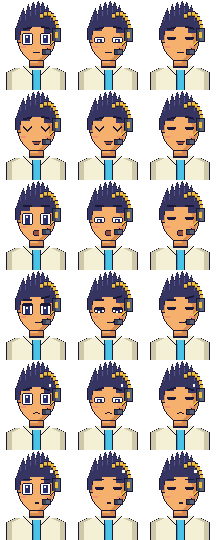
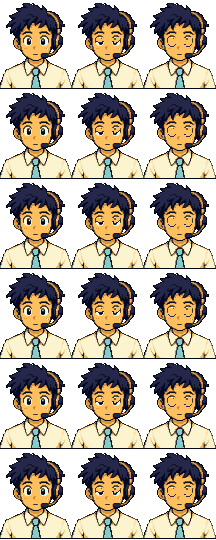
RetroNews: real art in — city background + the actual host portrait
Two tools and the assets they produced.

prep_art.py turns an AI "pixel art style" image into ACTUAL pixel art at spec.
It uses BOX averaging rather than NEAREST to downscale, which is counter-
intuitive: NEAREST keeps one arbitrary sample per output pixel, so thin features
(a window, an eye highlight) vanish or alias depending on where the grid lands.
BOX preserves structure and the QUANTIZE step after it is what makes the result
hard-edged — anti-aliasing is BLENDED EDGE pixels, and once every pixel is
snapped to a small palette there are none left. It then verifies rather than
trusts: exact dimensions, colour cap, and ZERO semi-alpha (the tell that AA
survived, invisible until it is on air with fringed edges).

BACKGROUND: the city skyline at 270x480 / 24 colours / 0 semi-alpha. Source was
941x1672, aspect 0.563 against our 0.5625 — essentially an exact match.
Displayed at 4x = 1080x1920 stage = 810x1440 device, on-grid.

#safe IS NOW TRANSPARENT. It was an opaque 864x1152 slab, which with YouTube's
chrome over the top and bottom bands left only ~4.9% of any background visible
(one 22x288 art-pixel strip). The panels carry their own bevels, so the city now
reads in the gaps and margins instead of being covered by a layout box.

HOST: replaced my hand-coded version — it was too derpy, correctly called out —
with the approved concept art downscaled to 72x90 / 21 colours, background keyed
out by corner agreement. build_host_sheet.py DERIVES the blink from that single
[…]

diff --git a/dashboard/retronews.css b/dashboard/retronews.css
@@ -134,12 +134,12 @@ html, body {
   left: var(--safe-x); top: var(--safe-y);
   width: var(--safe-w); height: var(--safe-h);
   display: flex; flex-direction: column;
-  padding: calc(var(--px) * 3);
-  background: var(--sky1);
-  box-shadow:
-    inset var(--px) var(--px) 0 0 var(--lit),
-    inset calc(var(--px) * -1) calc(var(--px) * -1) 0 0 var(--shade),
-    0 0 0 calc(var(--px) * 2) var(--shade);
+  /* TRANSPARENT — a layout box, not a slab.
+     It used to be an opaque panel with its own bevel, which covered 864x1152 of
+     a 1080x1920 stage: with YouTube's chrome over the top and bottom bands, that
+     left ~4.9% of any background actually visible. Now the individual panels
+     carry their own bevels and float, so the city reads in the gaps between
+     them and in the margins. */
 }
 
 /* ── 1. BRAND BAR — 216 x 24 logical ─────────────────────────────────────── */

diff --git a/scripts/build_host_sheet.py b/scripts/build_host_sheet.py
@@ -1,0 +1,148 @@
+#!/usr/bin/env python3
+"""Build the RetroNews host sheet from ONE prepared 72x90 portrait.
+
+The base art is the approved concept, downscaled to spec by prep_art.py. This
+DERIVES the other cells from it rather than regenerating anything, which is the
+only way registration survives: the skull, hair, headset and shirt are byte-
+identical in every cell because they are literally the same pixels. Regenerate
+per expression and a 1px drift becomes a visible 3px twitch at device scale
+every time his mood changes.
+
+    python scripts/build_host_sheet.py base.png dashboard/retronews_host.png
+
+Sheet: 3 lid columns x 6 mood rows of 72x90 = 216x540, indexed by retronews.js
+as column = eyelid, row = mood.
+
+WHAT IS AND IS NOT DERIVED
+The BLINK is derived honestly — the eye band is found by scanning for the row
+with the most near-white sclera pixels, then lids are closed by pulling skin
+down over it and stamping a lash line. That is real animation.
+Mood rows currently reuse the neutral face: the sheet is structurally complete
+and the mood system works, but only NEUTRAL is truly drawn. Hand-editing eyes
+and mouth on the base is what fills the rest in, and it must be done ON THE BASE
+so registration is preserved.
+"""
+from __future__ import annotations
+
+import sys
+from collections import Counter
+from PIL import Image
+
+W, H = 72, 90
+MOODS = 6
+LIDS = 3
+
+
+def dominant_skin(img: Image.Image) -> tuple[int, int, int, int]:
+    """Cheek colour: the most common warm tone in the middle third."""
+    px = img.load()
+    c = Counter()
+    for y in range(int(H * 0.35), int(H * 0.62)):
+        for x in range(int(W * 0.2), int(W * 0.8)):
+            r, g, b, a = px[x, y]
+            if a and r > 150 and g > 100 and b < 190 and r > b:
+                c[(r, g, b, 255)] += 1
+    return c.most_common(1)[0][0] if c else (240, 175, 110, 255)
+
+
+def find_eye_band(img: Image.Image) -> tuple[int, int, int, int]:
+    """Row range + x extent of the eyes, found by counting sclera-bright pixels
+    in the upper-middle of the face rather than by hardcoding coordinates —
+    hardcoding breaks the moment the art is re-cropped."""
+    px = img.load()
+    rows = []
+    for y in range(int(H * 0.28), int(H * 0.60)):
+        n = 0; xs = []
+        for x in range(W):
+            r, g, b, a = px[x, y]
+            if a and r > 205 and g > 205 and b > 195:
+                n += 1; xs.append(x)
+        rows.append((n, y, xs))
+    rows.sort(reverse=True)
+    best = rows[0]
+    ys = sorted(y for n, y, _ in rows[:5] if n >= max(2, best[0] // 3))
+    x0 = min(best[2]) if best[2] else int(W * 0.25)
+    x1 = max(best[2]) if best[2] else int(W * 0.75)
+    return min(ys), max(ys), x0, x1
+
+
+def eye_mask(base: Image.Image, y0: int, y1: int, x0: int, x1: int):
+    """Per-COLUMN vertical extent of actual eye pixels.
+
+    The first version filled the whole eye BOUNDING BOX, which swallowed the
+    bridge of the nose between the eyes and rendered the blink as a band across
+    his face. Working per column means the gap between the eyes has no eye
+    pixels in it and is simply skipped — the two lids close independently,
+    which is also what real eyelids do.
+    """
+    px = base.load()
+    cols = {}
+    for x in range(x0, x1 + 1):
+        ys = []
+        for y in range(y0 - 2, y1 + 3):
+            if not (0 <= y < H):
+                continue
+            r, g, b, a = px[x, y]
+            if not a:
+                continue
+            bright = r > 205 and g > 205 and b > 195          # sclera
+            dark = r < 90 and g < 90 and b < 120              # pupil / lash
+            if bright or dark:
+                ys.append(y)
+        if len(ys) >= 2:
+            # Dilate 1px. The eye KEYLINE sits just outside the sclera/pupil the
+            # scan detects, so without this a shut lid leaves an outline ring
+            # behind and reads as "eyes with rings" rather than closed.
+            cols[x] = (max(0, min(ys) - 1), min(H - 1, max(ys) + 1))
+    return cols
+
+
+def close_eyes(base: Image.Image, amount: float, skin, lash) -> Image.Image:
+    """amount 0 = open, ~0.55 = half, 1 = shut. Closes each eye per column."""
+    img = base.copy()
+    if amount <= 0:
+        return img
+    y0, y1, x0, x1 = find_eye_band(base)
+    cols = eye_mask(base, y0, y1, x0, x1)
+    px = img.load()
+    for x, (ey0, ey1) in cols.items():
+        h = ey1 - ey0 + 1
+        cover = max(1, int(round(h * amount)))
+        for y in range(ey0, ey0 + cover):
+            px[x, y] = skin
+        px[x, min(ey0 + cover - 1, ey1)] = lash      # lash line rides the lid edge
+    return img
+
+
+def main() -> int:
+    if len(sys.argv) < 3:
+        print(__doc__); return 2
+    base = Image.open(sys.argv[1]).convert("RGBA")
+    if base.size != (W, H):
+        print(f"base must be {W}x{H}, got {base.size}"); return 1
+
+    skin = dominant_skin(base)
+    y0, y1, x0, x1 = find_eye_band(base)
+    lash = (38, 36, 72, 255)
+    print(f"skin {skin[:3]}   eye band y{y0}..{y1}  x{x0}..{x1}")
+
+    cells = [base, close_eyes(base, 0.55, skin, lash), close_eyes(base, 1.0, skin, lash)]
+
+    sheet = Image.new("RGBA", (W * LIDS, H * MOODS), (0, 0, 0, 0))
+    for row in range(MOODS):
+        for col in range(LIDS):
+            sheet.alpha_composite(cells[col], (col * W, row * H))
+    sheet.save(sys.argv[2])
+
+    data = list(sheet.getdata())
+    cols = {p[:3] for p in data if p[3] > 0}
+    semi = sum(1 for p in data if 0 < p[3] < 255)
+    print(f"sheet {sheet.size[0]}x{sheet.size[1]}  colours={len(cols)}  semi-alpha={semi}")
+    print("  " + ("PASS" if semi == 0 and len(cols) <= 32 else "FAIL"))
+    print("  NOTE: blink is derived; mood rows still reuse NEUTRAL until the eyes"
+          "\n        and mouth are hand-edited ON THE BASE (keeps registration).")
+    return 0
+
+
+if __name__ == "__main__":
+    sys.exit(main())

diff --git a/scripts/prep_art.py b/scripts/prep_art.py
@@ -1,0 +1,116 @@
+#!/usr/bin/env python3
+"""Turn an AI-generated "pixel art style" image into ACTUAL pixel art at spec.
+
+Image models hand you a large, smooth image that merely LOOKS like pixel art:
+soft edges, thousands of colours, anti-aliased everything. Dropped straight onto
+the stage it reads as a blurry photo of pixel art. This does the conversion, and
+then verifies it rather than trusting it.
+
+    python scripts/prep_art.py IN.png OUT.png --size 270x480 --colors 24
+    python scripts/prep_art.py IN.png OUT.png --size 72x90 --colors 20 --key-corners
+
+WHY BOX-AVERAGE AND NOT NEAREST-NEIGHBOUR.
+The obvious move is NEAREST, since "nearest = crisp". It is wrong here: NEAREST
+throws away 99% of the source pixels and keeps one arbitrary sample per output
+pixel, so thin features (a window, an eye highlight) either vanish or alias into
+noise depending on where the grid happens to land. BOX averages the whole source
+cell, which preserves structure — and the QUANTIZE step after it is what makes
+the result hard-edged. Anti-aliasing is not "soft-looking pixels", it is
+BLENDED EDGE pixels; once every pixel is snapped to a small palette there are no
+blend values left, so the output is genuinely aliased. Averaging first gives a
+better image AND still satisfies the constraint.
+
+VERIFICATION is the point of the tool. It asserts exact dimensions, the colour
+cap, and ZERO semi-alpha pixels — that last one is the tell that anti-aliasing
+survived, and it is invisible until the sprite is on air with fringed edges.
+"""
+from __future__ import annotations
+
+import argparse
+import sys
+from collections import Counter
+from PIL import Image
+
+
+def parse_size(s: str) -> tuple[int, int]:
+    w, h = s.lower().split("x")
+    return int(w), int(h)
+
+
+def key_out_corners(img: Image.Image, tol: int = 26) -> Image.Image:
+    """Make the flat background transparent by sampling the four corners.
+
+    Only removes a colour that ALL FOUR corners agree on — a portrait on a flat
+    field has one, a scene does not, and guessing wrong would punch holes in the
+    art itself.
+    """
+    img = img.convert("RGBA")
+    w, h = img.size
+    px = img.load()
+    corners = [px[0, 0], px[w - 1, 0], px[0, h - 1], px[w - 1, h - 1]]
+    r0, g0, b0 = corners[0][:3]
+    for c in corners[1:]:
+        if abs(c[0] - r0) + abs(c[1] - g0) + abs(c[2] - b0) > tol:
+            print("  key: corners disagree — leaving background opaque")
+            return img
+    out = Image.new("RGBA", (w, h))
+    op = out.load()
+    for y in range(h):
+        for x in range(w):
+            r, g, b, a = px[x, y]
+            op[x, y] = (0, 0, 0, 0) if abs(r - r0) + abs(g - g0) + abs(b - b0) <= tol \
+                else (r, g, b, 255)
+    print(f"  key: removed background rgb({r0},{g0},{b0})")
+    return out
+
+
+def main() -> int:
+    ap = argparse.ArgumentParser()
+    ap.add_argument("src"); ap.add_argument("dst")
+    ap.add_argument("--size", required=True, help="WxH, e.g. 270x480")
+    ap.add_argument("--colors", type=int, default=24)
+    ap.add_argument("--crop", help="LEFT,TOP,RIGHT,BOTTOM in source pixels")
+    ap.add_argument("--key-corners", action="store_true",
+                    help="make a flat corner-matched background transparent")
+    a = ap.parse_args()
+
+    W, H = parse_size(a.size)
+    img = Image.open(a.src)
+    print(f"source  {img.size[0]}x{img.size[1]} {img.mode}")
+
+    if a.crop:
+        box = tuple(int(v) for v in a.crop.split(","))
+        img = img.crop(box)
+        print(f"crop    -> {img.size[0]}x{img.size[1]}")
+
+    if a.key_corners:
+        img = key_out_corners(img)
+    img = img.convert("RGBA")
+
+    # 1. BOX average down to target. Preserves structure; see the note above.
+    img = img.resize((W, H), Image.BOX)
+
+    # 2. Quantize. This is what makes it hard-edged — every pixel becomes one of
+    #    N palette entries, so no blended edge values remain.
+    alpha = img.getchannel("A")
+    rgb = img.convert("RGB").quantize(colors=a.colors, method=Image.MEDIANCUT,
+                                      dither=Image.NONE).convert("RGB")
+    out = rgb.convert("RGBA")
+    # 3. Alpha is binarised: a semi-transparent pixel IS an anti-aliased pixel.
+    out.putalpha(alpha.point(lambda v: 255 if v >= 128 else 0))
+    out.save(a.dst)
+
+    # ── verify, do not trust ────────────────────────────────────────────────
+    data = list(out.getdata())
+    cols = {p[:3] for p in data if p[3] > 0}
+    semi = sum(1 for p in data if 0 < p[3] < 255)
+    ok = out.size == (W, H) and semi == 0 and len(cols) <= a.colors
+    print(f"output  {out.size[0]}x{out.size[1]}  colours={len(cols)}  semi-alpha={semi}")
+    top = Counter(p[:3] for p in data if p[3] > 0).most_common(6)
+    print("  dominant: " + "  ".join("#%02x%02x%02x" % c for c, _ in top))
+    print("  " + ("PASS — real pixel art at spec" if ok else "FAIL — check above"))
+    return 0 if ok else 1
+
+
+if __name__ == "__main__":
+    sys.exit(main())

diff --git a/dashboard/views/retronews.py b/dashboard/views/retronews.py
@@ -173,6 +173,14 @@ def _build_html(show_guides: bool) -> str:
     # stage is delivered as one HTML blob inside a component iframe, which has no
     # route to a static asset — the same reason blob.js carries its sprite sheets
     # as base64. 9KB, so the cost is nothing.
+    _bg = _DASHBOARD / "retronews_bg.png"
+    bg_css = ""
+    if _bg.exists():
+        b64bg = base64.b64encode(_bg.read_bytes()).decode("ascii")
+        bg_css = ("#stage{background-image:url(data:image/png;base64," + b64bg + ");"
+                  "background-size:1080px 1920px;background-repeat:no-repeat;"
+                  "image-rendering:pixelated;}")
+
     _host = _DASHBOARD / "retronews_host.png"
     host_css = ""
     if _host.exists():
@@ -198,7 +206,7 @@ def _build_html(show_guides: bool) -> str:
     # Not an f-string: CSS/JS brace density makes escaping a liability.
     return (
         fonts
-        + "<style>" + css + host_css + "</style>"
+        + "<style>" + css + bg_css + host_css + "</style>"
         + _STAGE_HTML.replace("__GUIDES__", stage_cls)
         + "<script>window._TND_RETRONEWS = " + json.dumps(payload, default=str) + ";</script>"
         + "<script>" + js + "</script>"